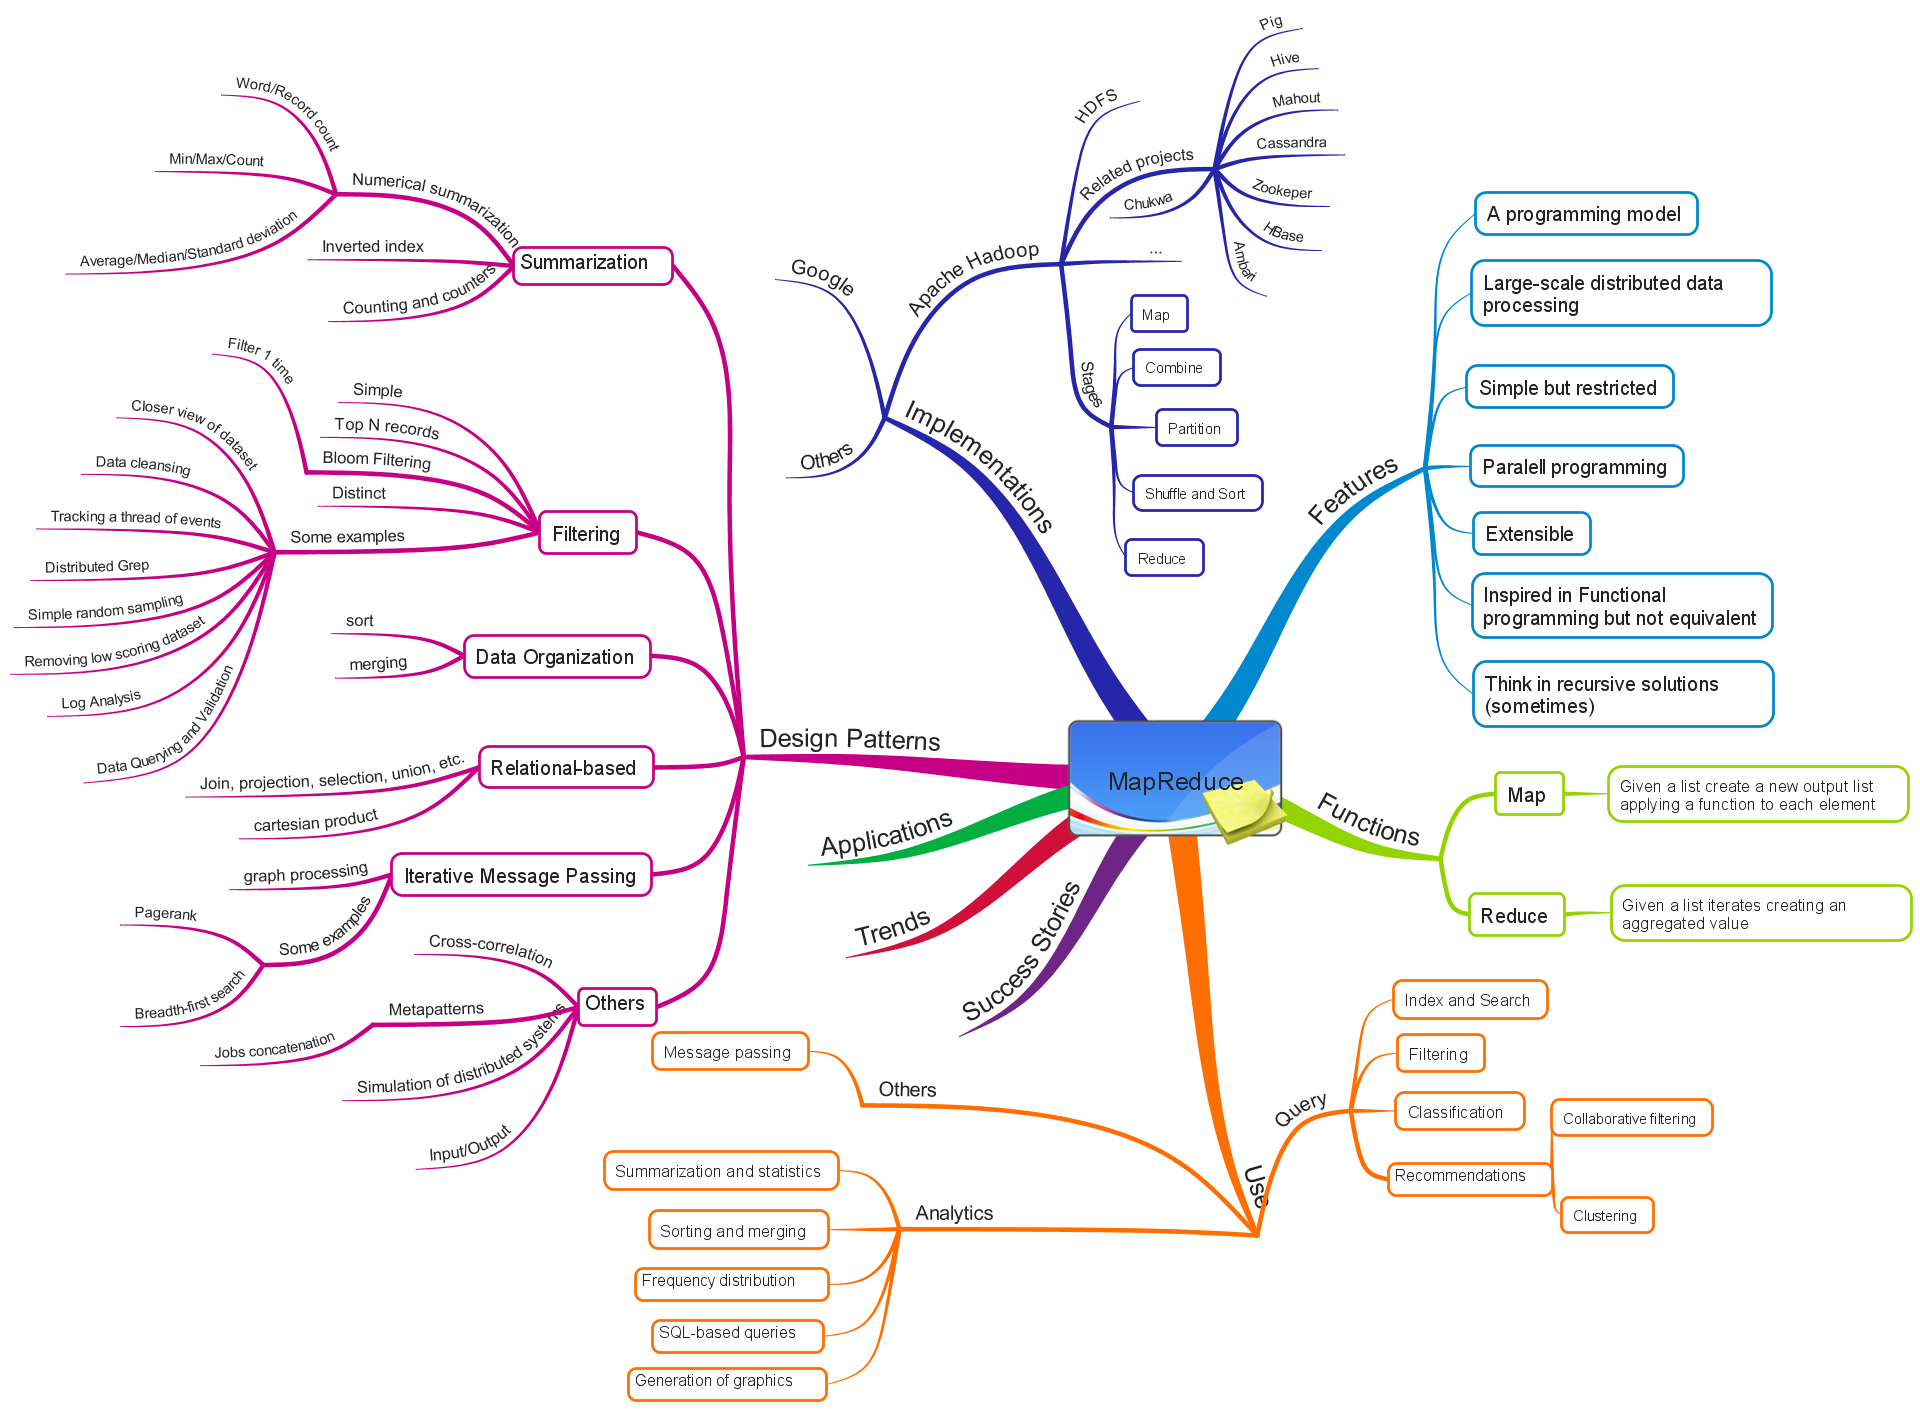
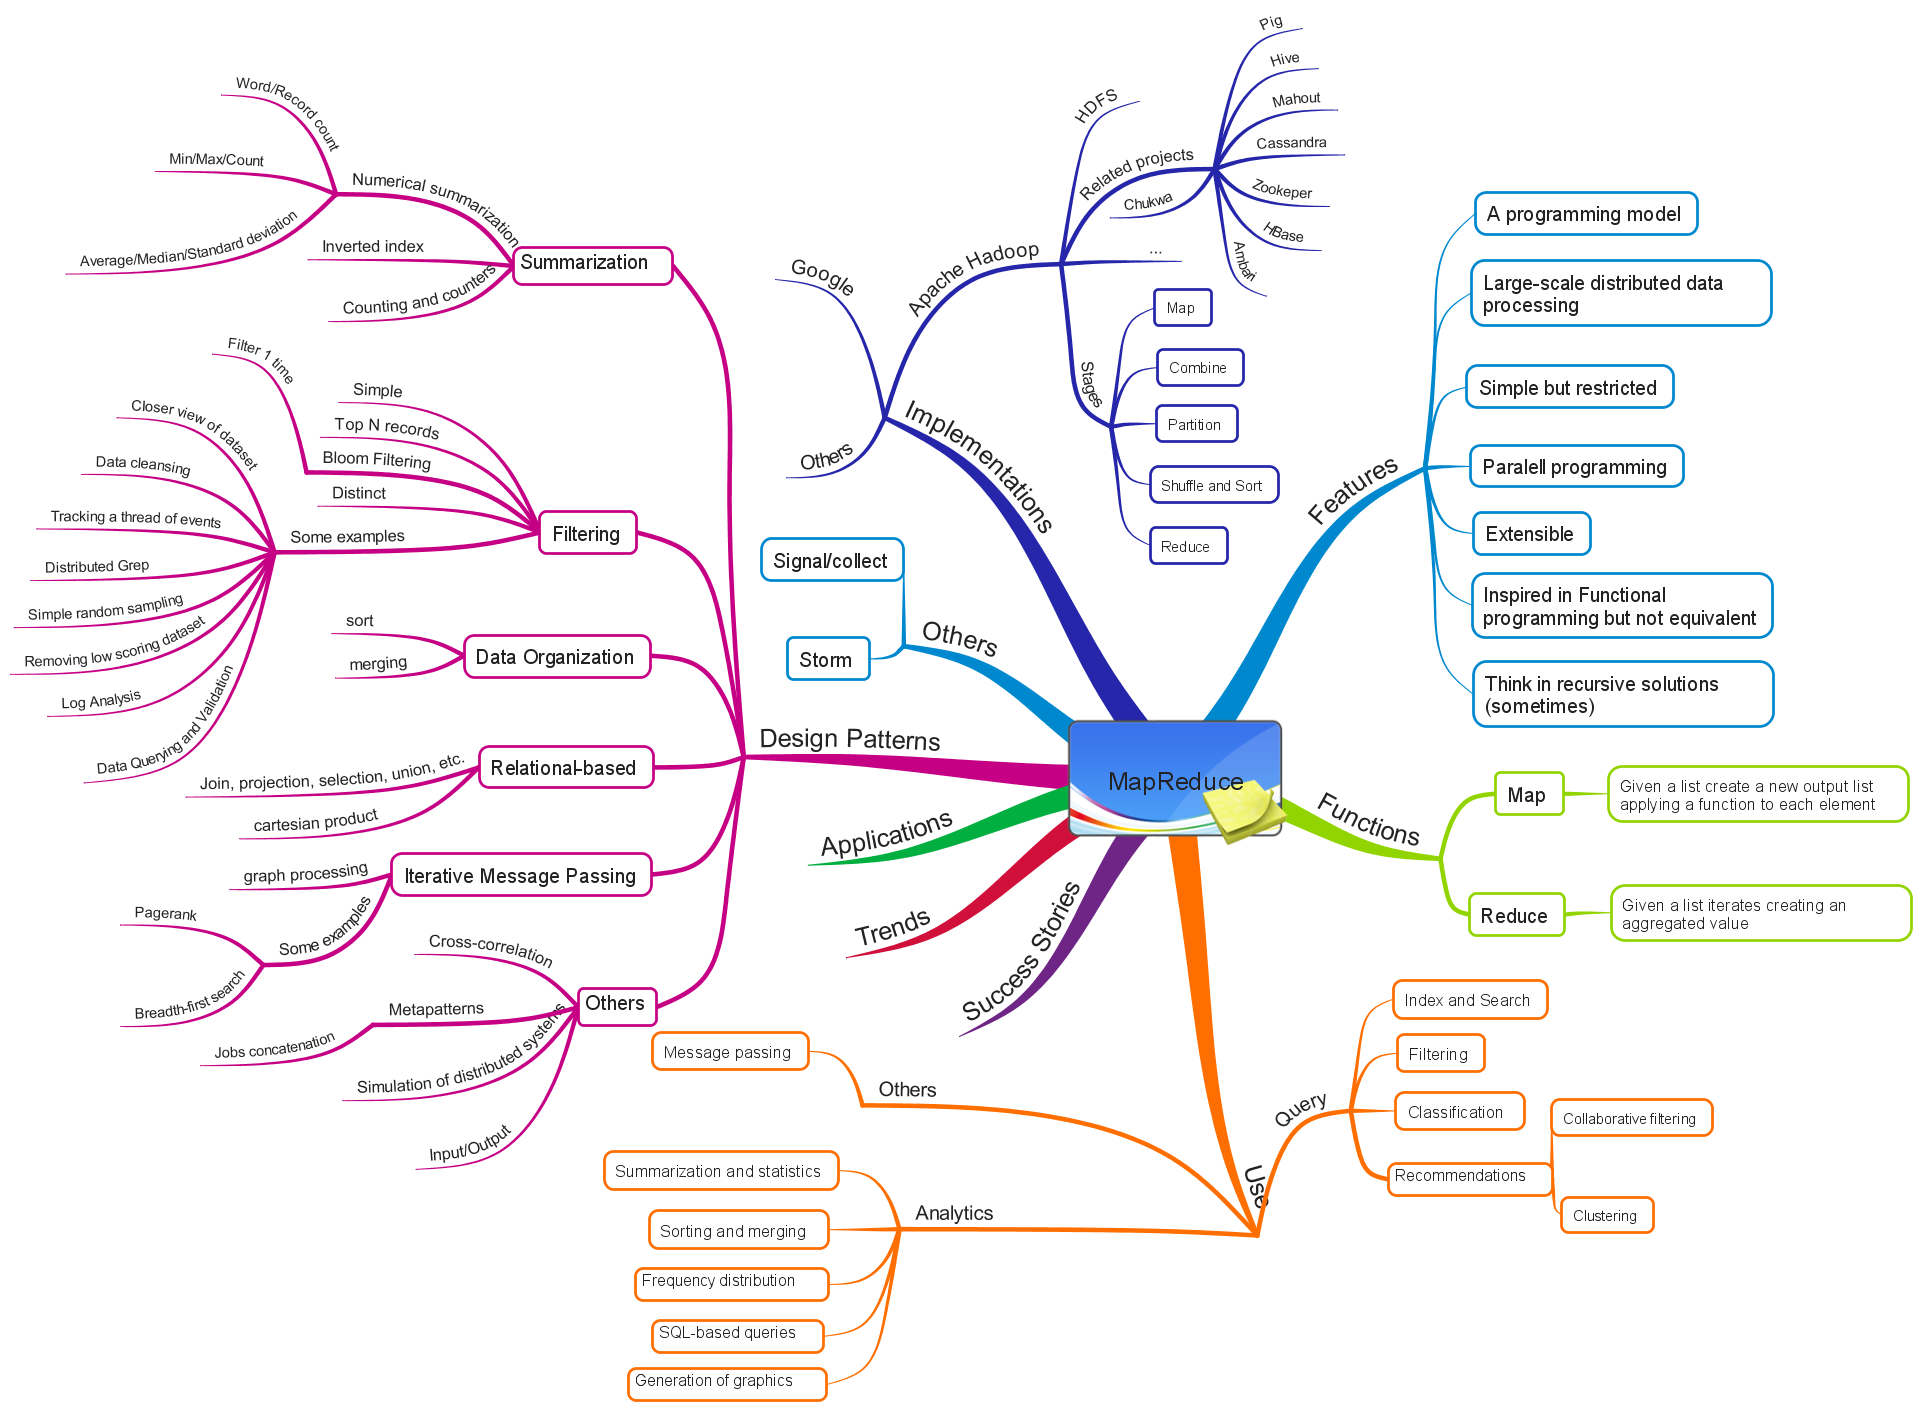
Adding images

Changed region(s): [[0.5625, 0.1854, 0.6562, 0.4017], [0.4062, 0.4326, 0.5625, 0.5253], [0.4062, 0.3708, 0.4688, 0.4017]]

diff --git a/presentations/map-reduce-intro/map-reduce-intro.tex b/presentations/map-reduce-intro/map-reduce-intro.tex
@@ -461,6 +461,17 @@ public void reduce(Text key, Iterable<IntWritable> values, Context context)
 
 }
 
+\frame{
+  \frametitle{Overview - Min/Max}
+\begin{figure}[!htb]
+\centering
+ \includegraphics[width=8cm]{img/min-max}
+\end{figure}
+\tiny
+$\ast$ Min and max creation data are the same in tha map phase.
+}
+
+
 
 \begin{frame}[fragile]
   \frametitle{Example II-Min/Max, function Map}
@@ -869,6 +880,7 @@ All companies that are dealing with Big Data problems for analytics such as:
  \item ...scalability, replication, fault-tolerant, etc.
  \item Apache Hadoop is not a database
  \item New frameworks on top of Hadoop for specific tasks: querying, analysis, etc.
+ \item Other similar frameworks: Storm, Signal/Collect, etc.
  \item \ldots
 \end{itemize}
 
